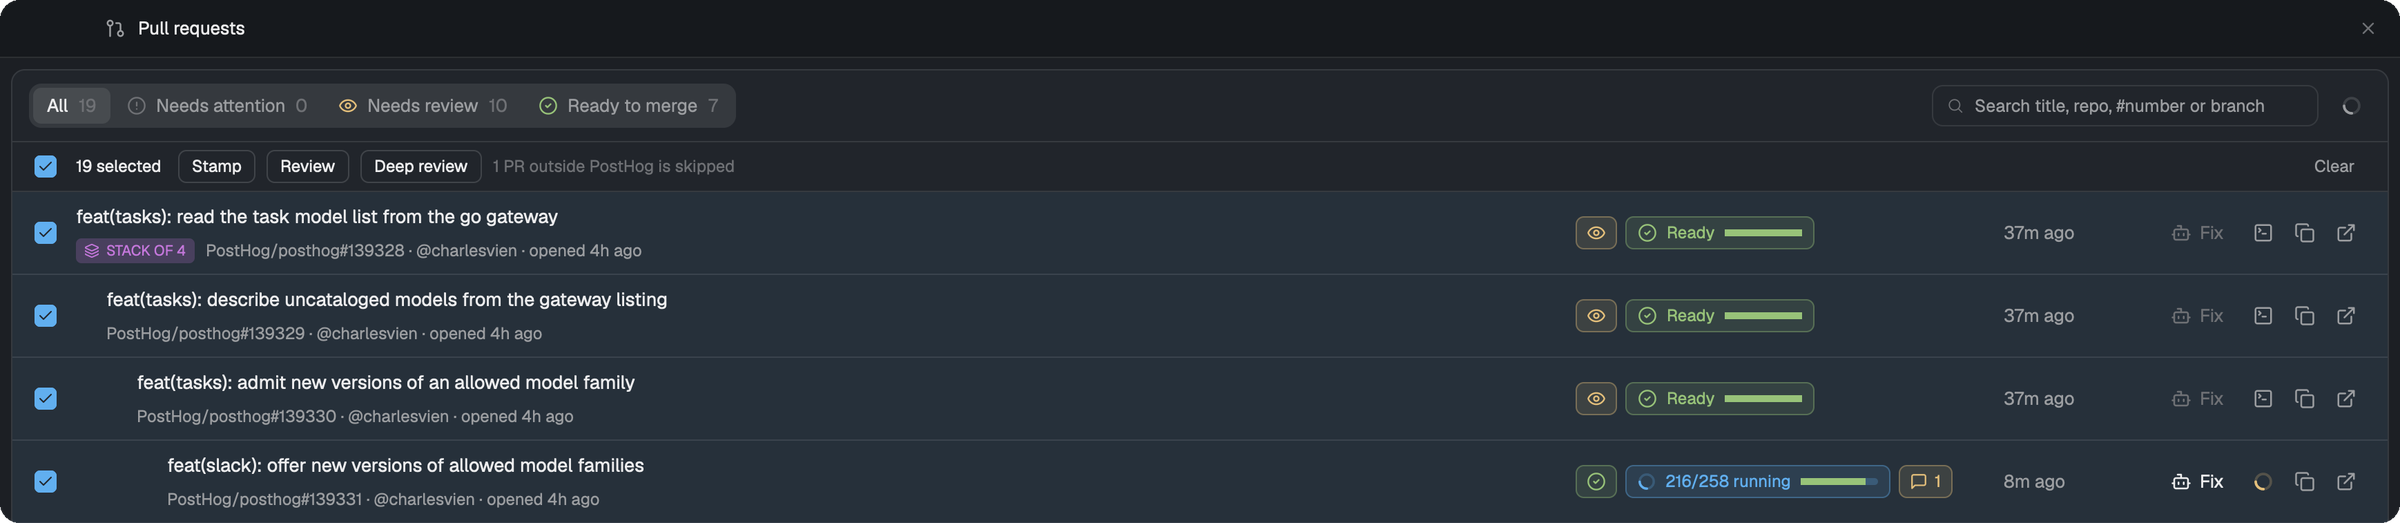
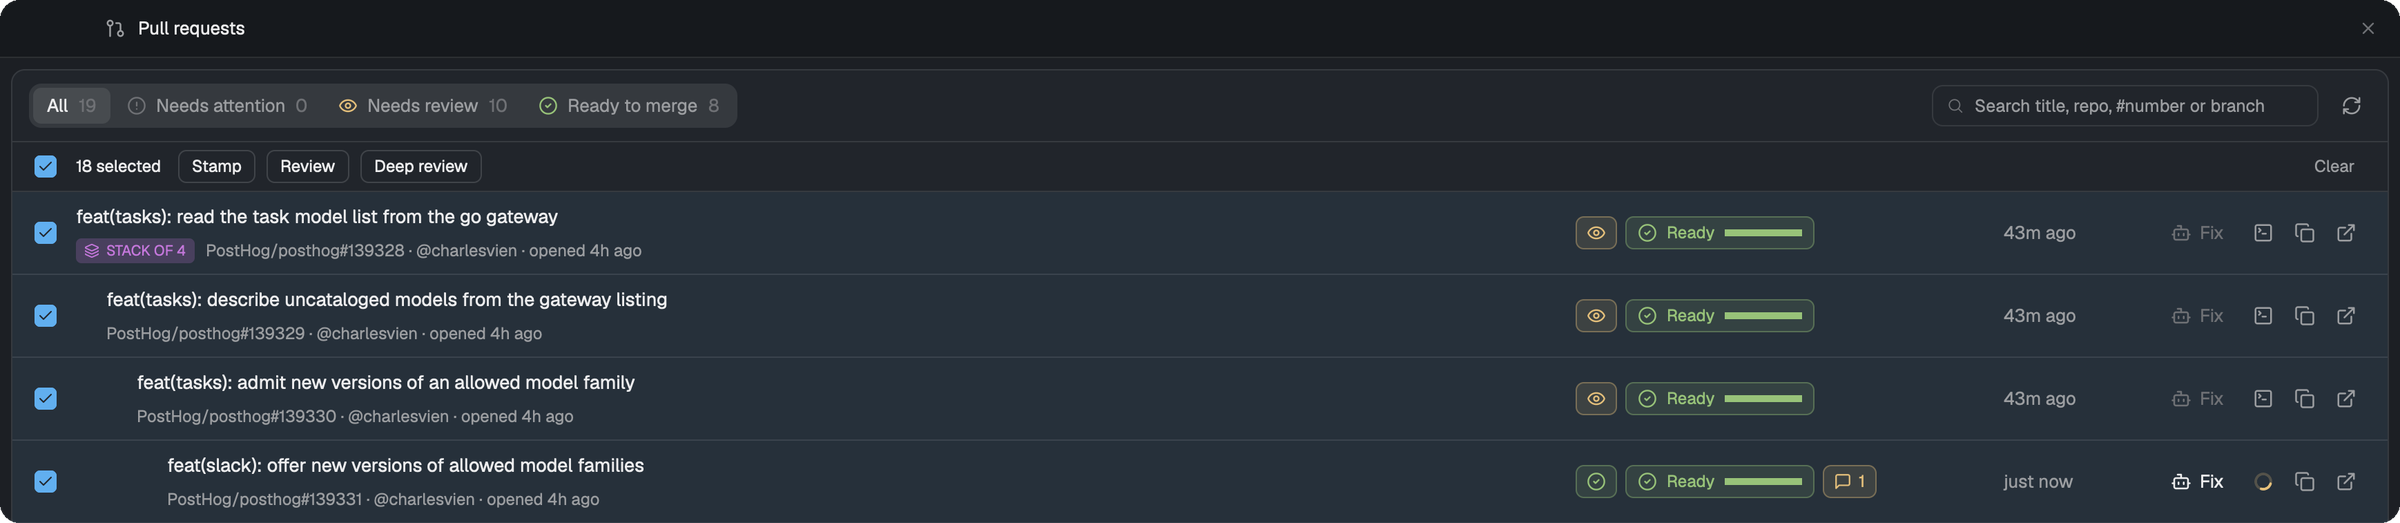
Show bulk comments only on PostHog repos

diff --git a/mods/pull-requests/main.js b/mods/pull-requests/main.js
@@ -30,6 +30,7 @@ const plural = (count, word) => `${count} ${word}${count === 1 ? "" : "s"}`;
 const after = (list, current) => list[(list.indexOf(current) + 1) % list.length];
 const isStale = (pr) => Date.now() - pr.updated > STALE_DAYS * 86400000;
 const hasBot = (pr) => pr.repo.startsWith(`${BOT_OWNER}/`);
+const selectableIds = (rows) => rows.filter((row) => hasBot(row.pr)).map((row) => row.pr.id);
 
 function ago(time) {
   const seconds = Math.max(0, (Date.now() - time) / 1000);
@@ -172,7 +173,7 @@ export default class PullRequests extends View {
   }
 
   toggle(pr, rows, shift, cx) {
-    const ids = rows.map((row) => row.pr.id);
+    const ids = selectableIds(rows);
     const from = ids.indexOf(this.anchor);
     const to = ids.indexOf(pr.id);
     const range = shift && from >= 0 ? ids.slice(Math.min(from, to), Math.max(from, to) + 1) : null;
@@ -181,14 +182,14 @@ export default class PullRequests extends View {
   }
 
   toggleAll(rows, cx) {
-    const ids = rows.map((row) => row.pr.id);
+    const ids = selectableIds(rows);
     this.select(ids, !ids.every((id) => this.selected.has(id)), cx);
   }
 
   toggleStack(rows, index, cx) {
     let end = index + 1;
     while (end < rows.length && rows[end].depth > 0) end++;
-    const ids = rows.slice(index, end).map((row) => row.pr.id);
+    const ids = selectableIds(rows.slice(index, end));
     this.select(ids, !ids.every((id) => this.selected.has(id)), cx);
   }
 
@@ -349,23 +350,23 @@ export default class PullRequests extends View {
   }
 
   row({ pr, depth, stack }, index, rows, t, c, cols, paneList) {
-    const on = this.selected.has(pr.id);
+    const selectable = hasBot(pr);
+    const on = selectable && this.selected.has(pr.id);
     return h_flex().id(`pr-${pr.id}`).h(60).flex_none().px(16).items_center().border_b(1).border_color(t.border)
       .when(on, (el) => el.bg(alpha(t.accent, "14")))
       .when(!on, (el) => el.hover((s) => s.bg(t.hover)))
-      .cursor_pointer()
-      .on_click((e, cx) => this.toggle(pr, rows, e.modifiers.shift, cx))
-      .child(this.checkbox(`select-${pr.id}`, on ? "on" : "off", t))
+      .when(selectable, (el) => el.cursor_pointer().on_click((e, cx) => this.toggle(pr, rows, e.modifiers.shift, cx)))
+      .when(cols.select, (el) => el.child(selectable ? this.checkbox(`select-${pr.id}`, on ? "on" : "off", t) : div().w(30).flex_none()))
       .child(v_flex().flex_1().min_w(0).pl(depth * 22).pr(16).gap(4)
         .child(div().truncate().text_size(13.5).font_medium().child(pr.title))
         .child(h_flex().gap(8).items_center().text_size(12).text_color(t.muted)
           .when(stack > 0, (el) =>
             el.child(h_flex().id(`stack-${pr.id}`).h(18).flex_none().px(6).gap(5).items_center().rounded(4).bg(alpha(c.stack, "38")).text_color(c.stack).text_size(10.5).font_semibold()
-              .cursor_pointer().hover((s) => s.bg(alpha(c.stack, "59"))).tooltip("Select the whole stack")
-              .on_click((_e, cx) => {
-                cx.stop_propagation();
-                this.toggleStack(rows, index, cx);
-              })
+              .when(selectable, (badge) => badge.cursor_pointer().hover((s) => s.bg(alpha(c.stack, "59"))).tooltip("Select the whole stack")
+                .on_click((_e, cx) => {
+                  cx.stop_propagation();
+                  this.toggleStack(rows, index, cx);
+                }))
               .child(icon("layers").size(11)).child(`STACK OF ${stack}`)))
           .when(pr.draft, (el) => el.child(div().flex_none().px(6).h(18).flex().items_center().rounded(4).bg(t.raised).text_size(10.5).font_semibold().child("DRAFT")))
           .child(div().min_w(0).truncate().child(`${pr.repo}#${pr.number} · @${pr.author} · opened ${ago(pr.created)}`))))
@@ -396,11 +397,10 @@ export default class PullRequests extends View {
     const filter = FILTERS.find((candidate) => candidate.id === this.filter) ?? FILTERS[0];
     const rows = arrange(needle ? all : scoped, this.sort, (pr) => filter.test(pr) && (!needle || `${pr.title} ${pr.repo}#${pr.number} @${pr.author} ${pr.head}`.toLowerCase().includes(needle)));
     this.rows = rows;
-    const chosen = rows.filter((row) => this.selected.has(row.pr.id)).map((row) => row.pr);
-    const targets = chosen.filter(hasBot);
-    const skipped = chosen.length - targets.length;
+    const selectable = selectableIds(rows);
+    const chosen = rows.filter((row) => hasBot(row.pr) && this.selected.has(row.pr.id)).map((row) => row.pr);
     const compact = this.width < 940;
-    const cols = { bar: this.width >= 1040, status: this.width >= 1040 ? 310 : 246, updated: this.width >= 820 ? 84 : 0 };
+    const cols = { select: selectable.length > 0, bar: this.width >= 1040, status: this.width >= 1040 ? 310 : 246, updated: this.width >= 820 ? 84 : 0 };
     const paneList = panes();
     const empty = needle ? `Nothing matches "${this.query.trim()}"` : this.prs ? filter.empty : this.loading ? "Loading pull requests…" : "";
 
@@ -448,7 +448,7 @@ export default class PullRequests extends View {
       .children(BULK_ACTIONS.map((action) => {
         const armed = this.armed?.id === action.id;
         const running = this.posting?.id === action.id;
-        const enabled = targets.length > 0 && !this.posting;
+        const enabled = !this.posting;
         return h_flex().id(`bulk-${action.id}`).h(24).px(9).gap(6).flex_none().items_center().rounded(6).border_1().font_medium()
           .border_color(armed ? t.solid : t.input)
           .text_color(armed ? t.solid_foreground : enabled || running ? t.foreground : t.dim)
@@ -456,11 +456,10 @@ export default class PullRequests extends View {
           .when(enabled, (el) => el.cursor_pointer())
           .when(enabled && !armed, (el) => el.hover((s) => s.bg(t.hover)))
           .tooltip(`Comments "${action.comment}" on each selected PR`)
-          .on_click((_e, cx) => this.runBulk(action, targets, cx))
+          .on_click((_e, cx) => this.runBulk(action, chosen, cx))
           .when(running, (el) => el.child(icon("spinner").size(12).spin(900)))
-          .child(running ? `Posting ${this.posting.done}/${this.posting.total}` : armed ? `Post on ${plural(targets.length, "PR")}?` : action.label);
+          .child(running ? `Posting ${this.posting.done}/${this.posting.total}` : armed ? `Post on ${plural(chosen.length, "PR")}?` : action.label);
       }))
-      .when(skipped > 0, (el) => el.child(div().min_w(0).truncate().text_color(t.dim).child(`${plural(skipped, "PR")} outside ${BOT_OWNER} ${skipped === 1 ? "is" : "are"} skipped`)))
       .child(div().flex_1())
       .child(div().id("clear-selection").px(7).h(22).flex().flex_none().items_center().rounded(5).cursor_pointer().text_color(t.muted)
         .hover((s) => s.bg(t.hover).text_color(t.foreground))
@@ -468,7 +467,7 @@ export default class PullRequests extends View {
         .child("Clear"));
 
     const columns = h_flex().h(36).flex_none().px(16).items_center().border_b(1).border_color(t.border)
-      .child(this.checkbox("select-all", !chosen.length ? "off" : chosen.length === rows.length ? "on" : "some", t, (_e, cx) => this.toggleAll(rows, cx)))
+      .when(cols.select, (el) => el.child(this.checkbox("select-all", !chosen.length ? "off" : chosen.length === selectable.length ? "on" : "some", t, (_e, cx) => this.toggleAll(rows, cx))))
       .child(chosen.length ? bulk : labels);
 
     const staleNote = h_flex().h(44).flex_none().px(16).gap(10).items_center().text_size(12).text_color(t.dim)

diff --git a/.github/README.md b/.github/README.md
@@ -26,7 +26,7 @@
 - **Three filters.** Needs attention, Needs review and Ready to merge, each with a live count.
 - **Fix.** Starts an agent on the PR's branch to get it mergeable. It reuses the worktree for that branch or makes one.
 - **Jump to the branch.** The terminal button opens the space on that branch and shows when an agent is working there.
-- **Bulk comments.** Select many PRs and post a bot command on all of them, after a confirm click.
+- **Bulk bot comments.** On PRs in the PostHog org, select many and post a review bot command on all of them after a confirm click. Other repos never show the checkboxes.
 - **Sidebar count.** The Apps entry shows how many PRs need attention.
 
 <p align="center">
@@ -90,7 +90,7 @@ This goes in your own layout. Still on the shipped one? Clone it first with `her
 
 - Open it from **Apps** in the sidebar. Leave with Esc, the × in the title bar or by switching space.
 - Hide the sidebar and the app fills the whole window.
-- Click a row to select it. Shift-click selects a range, a stack badge selects its stack and the header box selects everything.
+- PRs in the PostHog org can be selected. Click a row, shift-click for a range, click a stack badge for its stack or use the header box for all of them.
 - A bulk button asks once ("Post on 3 PRs?") before it comments.
 
 Switching space or tab closes the app by itself. To also leave when you click the space you are already in, add this line to your spaces and agents mods, right before they select:
@@ -117,7 +117,7 @@ Nothing is bound by default. These commands work in `keys.json`:
 The settings sit at the top of `mods/pull-requests/main.js`.
 
 - `BULK_ACTIONS`: the comments the bulk buttons post.
-- `BOT_OWNER`: bulk comments only go to PRs in this org.
+- `BOT_OWNER`: the org whose PRs get checkboxes and bulk comments.
 - `FIX_TASK`: the first message the Fix agent gets. By default it stops before committing or pushing.
 - `STALE_DAYS`: PRs quieter than this fold away at the bottom of the list.
 
